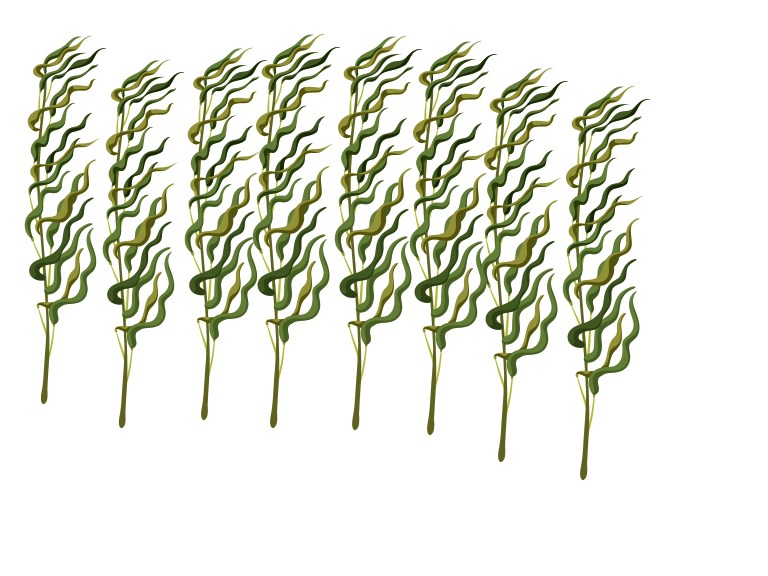
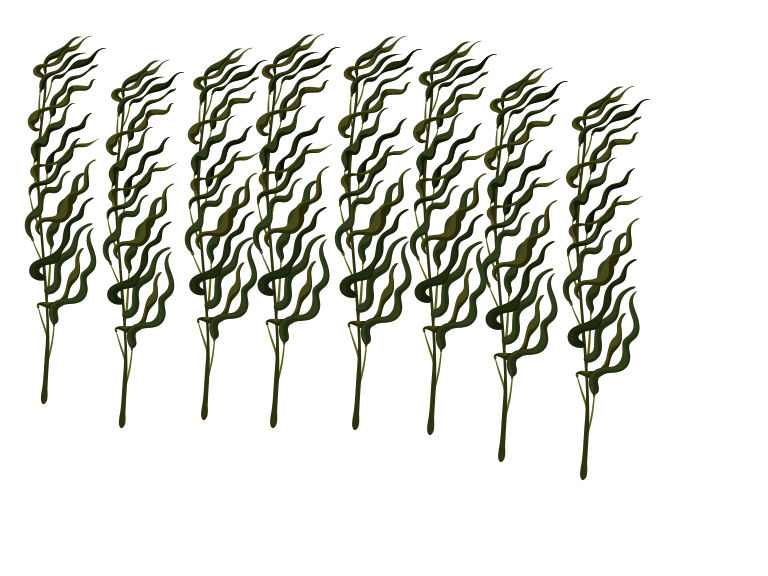
Added kelp monster

Changed region(s): [[0.0312, 0.0625, 0.8438, 0.8438], [0.625, 0.7188, 0.6562, 0.8125], [0.5312, 0.7188, 0.5625, 0.75]]

diff --git a/src/pages/location/forest/Forest.svelte b/src/pages/location/forest/Forest.svelte
@@ -2,7 +2,7 @@
   import { querystring } from "svelte-spa-router";
   import { onMount } from "svelte";
   import { Grid, Area } from "$components/exploration";
-  import { Submarine } from "$components/gameObjects";
+  import { Submarine, KelpMonster } from "$components/gameObjects";
   import { TurbulentImg, BgImg } from "$components/ui/img";
   import { Lol } from "$components/text";
   import { Darkness, UnderwaterGradient } from "$components/visual";
@@ -13,13 +13,14 @@
     coords as subCoords,
   } from "$stores/sub";
   import { gameApi } from "$apis";
+  import forest from "./events.svelte";
 
   import { ForestPath } from "$components/svg/environment";
   import underwater from "$assets/underwater_wide.jpg";
   import forest_1 from "$assets/forest/forest_1.png";
   import forest_2 from "$assets/forest/forest_2.png";
   import forest_3 from "$assets/forest/forest_3.png";
-  import kelp_foreground from "$assets/forest/kelp_foreground.png";
+  import kelp_1 from "$assets/forest/kelp_1.png";
   import kelp_2 from "$assets/forest/kelp_2.png";
   import kelp_3 from "$assets/forest/kelp_3.png";
   import kelp_4 from "$assets/forest/kelp_4.png";
@@ -107,9 +108,10 @@
     style="filter: brightness(0.5); transform: translateX({$gridOffset.x /
       6}px);"
   />
+  <KelpMonster class="w-[555px] h-[666px] z-[9]" />
   <Submarine class="z-10" />
   <BgImg
-    src={kelp_foreground}
+    src={kelp_1}
     class="size-full z-[11]"
     style="filter: brightness({1 -
       depthRatio +
@@ -122,21 +124,30 @@
   />
 
   {#snippet areas()}
-    <Area size={[grid.width, $gameApi.windowHeight]} onmousedown={moveSub}>
+    <Area
+      size={[grid.width, $gameApi.windowHeight]}
+      onmousedown={(e) => $forest.onClickArea(e)}
+    >
       <UnderwaterGradient
         class="absolute w-full h-[101%]"
         --color-top="#03E5B7"
         --color-bottom="#00C1EF"
       />
     </Area>
-    <Area size={[grid.width, $gameApi.windowHeight]} onmousedown={moveSub}>
+    <Area
+      size={[grid.width, $gameApi.windowHeight]}
+      onmousedown={(e) => $forest.onClickArea(e)}
+    >
       <UnderwaterGradient
         class="absolute w-full h-[101%]"
         --color-top="#00C1EF"
         --color-bottom="#037ADE"
       />
     </Area>
-    <Area size={[grid.width, $gameApi.windowHeight]} onmousedown={moveSub}>
+    <Area
+      size={[grid.width, $gameApi.windowHeight]}
+      onmousedown={(e) => $forest.onClickArea(e)}
+    >
       <UnderwaterGradient
         class="absolute size-full"
         --color-top="#037ADE"
@@ -150,7 +161,10 @@
         <Lol key="wrecks" class="mr-1" />
       </button>
     </Area>
-    <Area size={[grid.width, $gameApi.windowHeight]} onmousedown={moveSub}>
+    <Area
+      size={[grid.width, $gameApi.windowHeight]}
+      onmousedown={(e) => $forest.onClickArea(e)}
+    >
       <UnderwaterGradient
         class="absolute size-full"
         --color-top="#182B3A"

diff --git a/src/lib/components/gameObjects/KelpMonster.svelte b/src/lib/components/gameObjects/KelpMonster.svelte
@@ -1,0 +1,13 @@
+<script lang="ts">
+  import { TurbulentImg } from "$components/ui/img";
+  import kelp_monster from "$assets/characters/otter/kelp_monster.png";
+
+  let { class: extraClass, coords = { x: 0, y: 0 } } = $props();
+</script>
+
+<div
+  class="absolute pointer-events-none {extraClass} blur-[2px]"
+  style="transform: translate({coords.x}px, {coords.y}px);"
+>
+  <TurbulentImg src={kelp_monster} duration={11} scale={11} />
+</div>

diff --git a/src/pages/location/forest/events.svelte.ts b/src/pages/location/forest/events.svelte.ts
@@ -1,0 +1,10 @@
+import { writable, get } from "svelte/store";
+import { moveSub } from "$stores/exploration";
+
+class ForestEvents {
+  onClickArea(e: MouseEvent) {
+    moveSub(e);
+  }
+}
+
+export default writable(new ForestEvents());

diff --git a/src/lib/components/gameObjects/index.ts b/src/lib/components/gameObjects/index.ts
@@ -1,3 +1,4 @@
 import Submarine from "./Submarine.svelte";
 import Conch from "./Conch.svelte";
-export { Submarine, Conch };
+import KelpMonster from "./KelpMonster.svelte";
+export { Submarine, Conch, KelpMonster };
